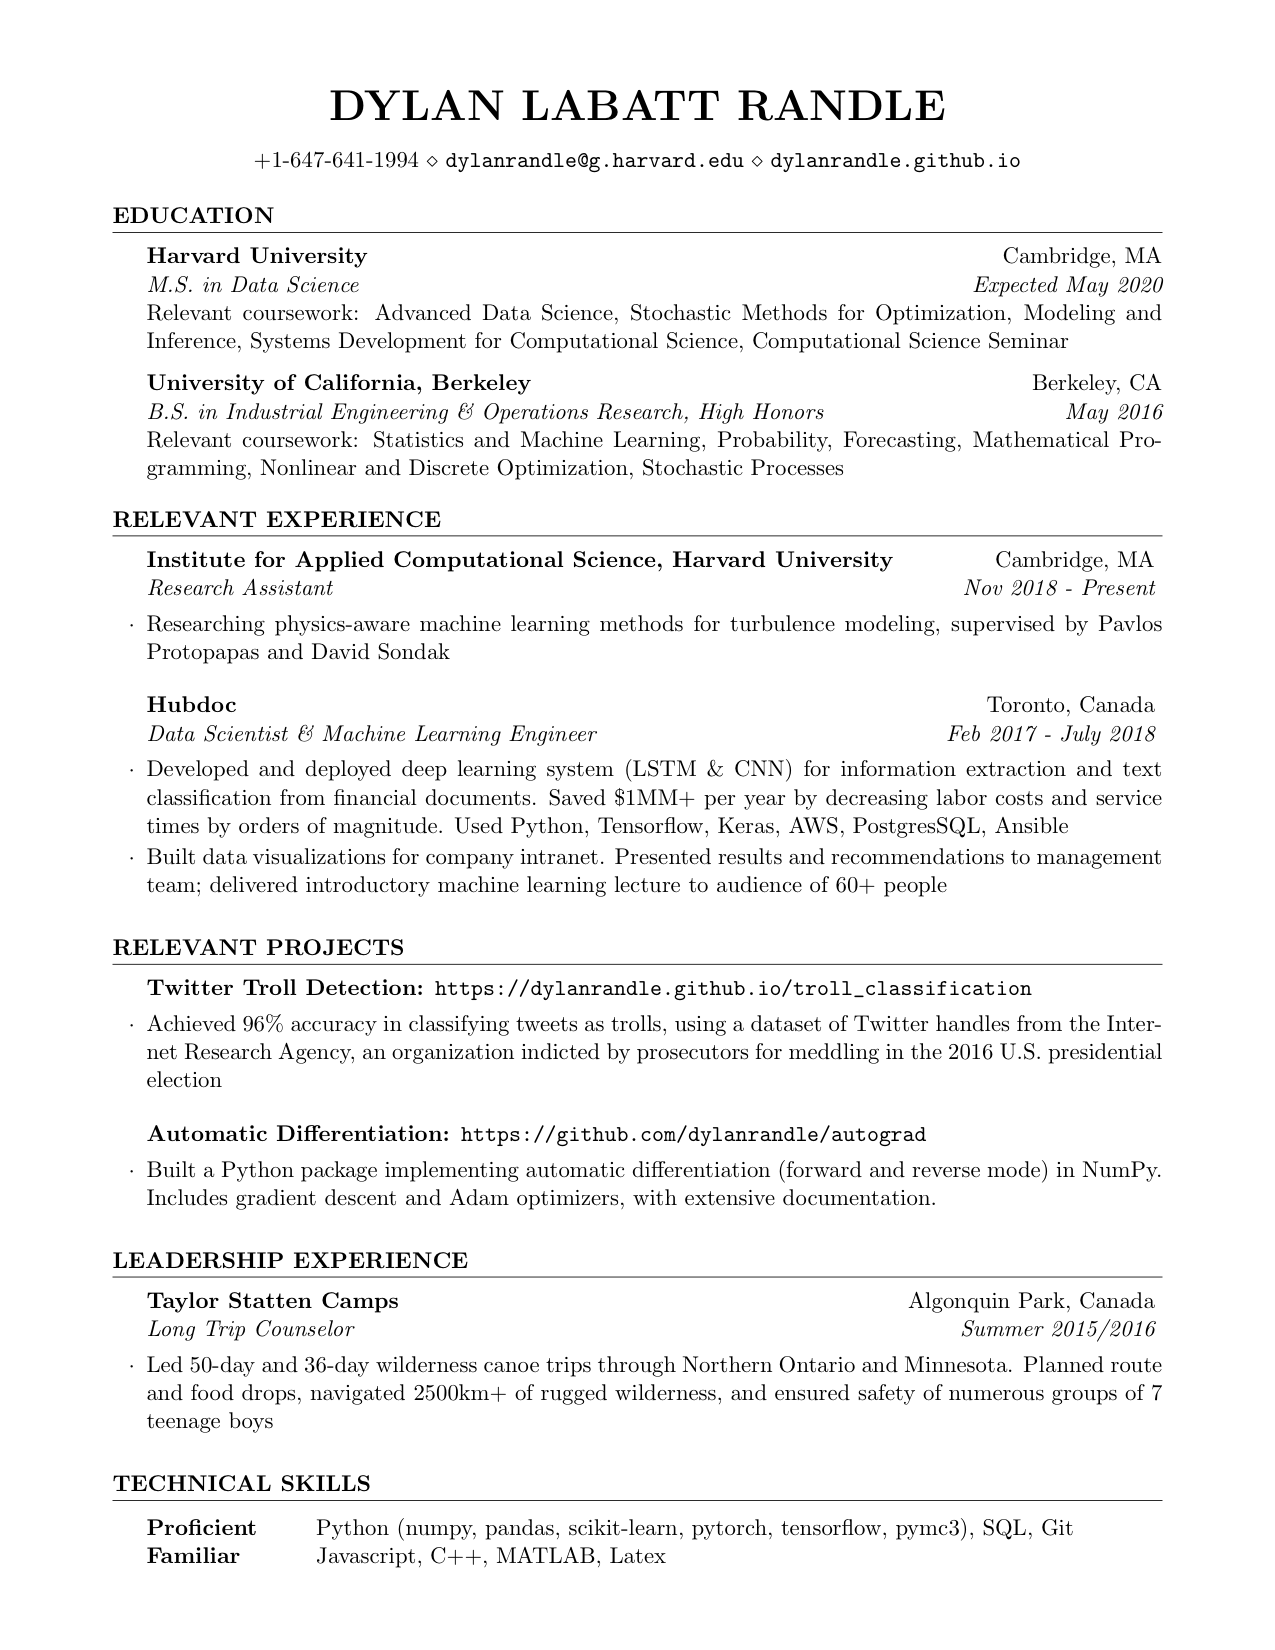
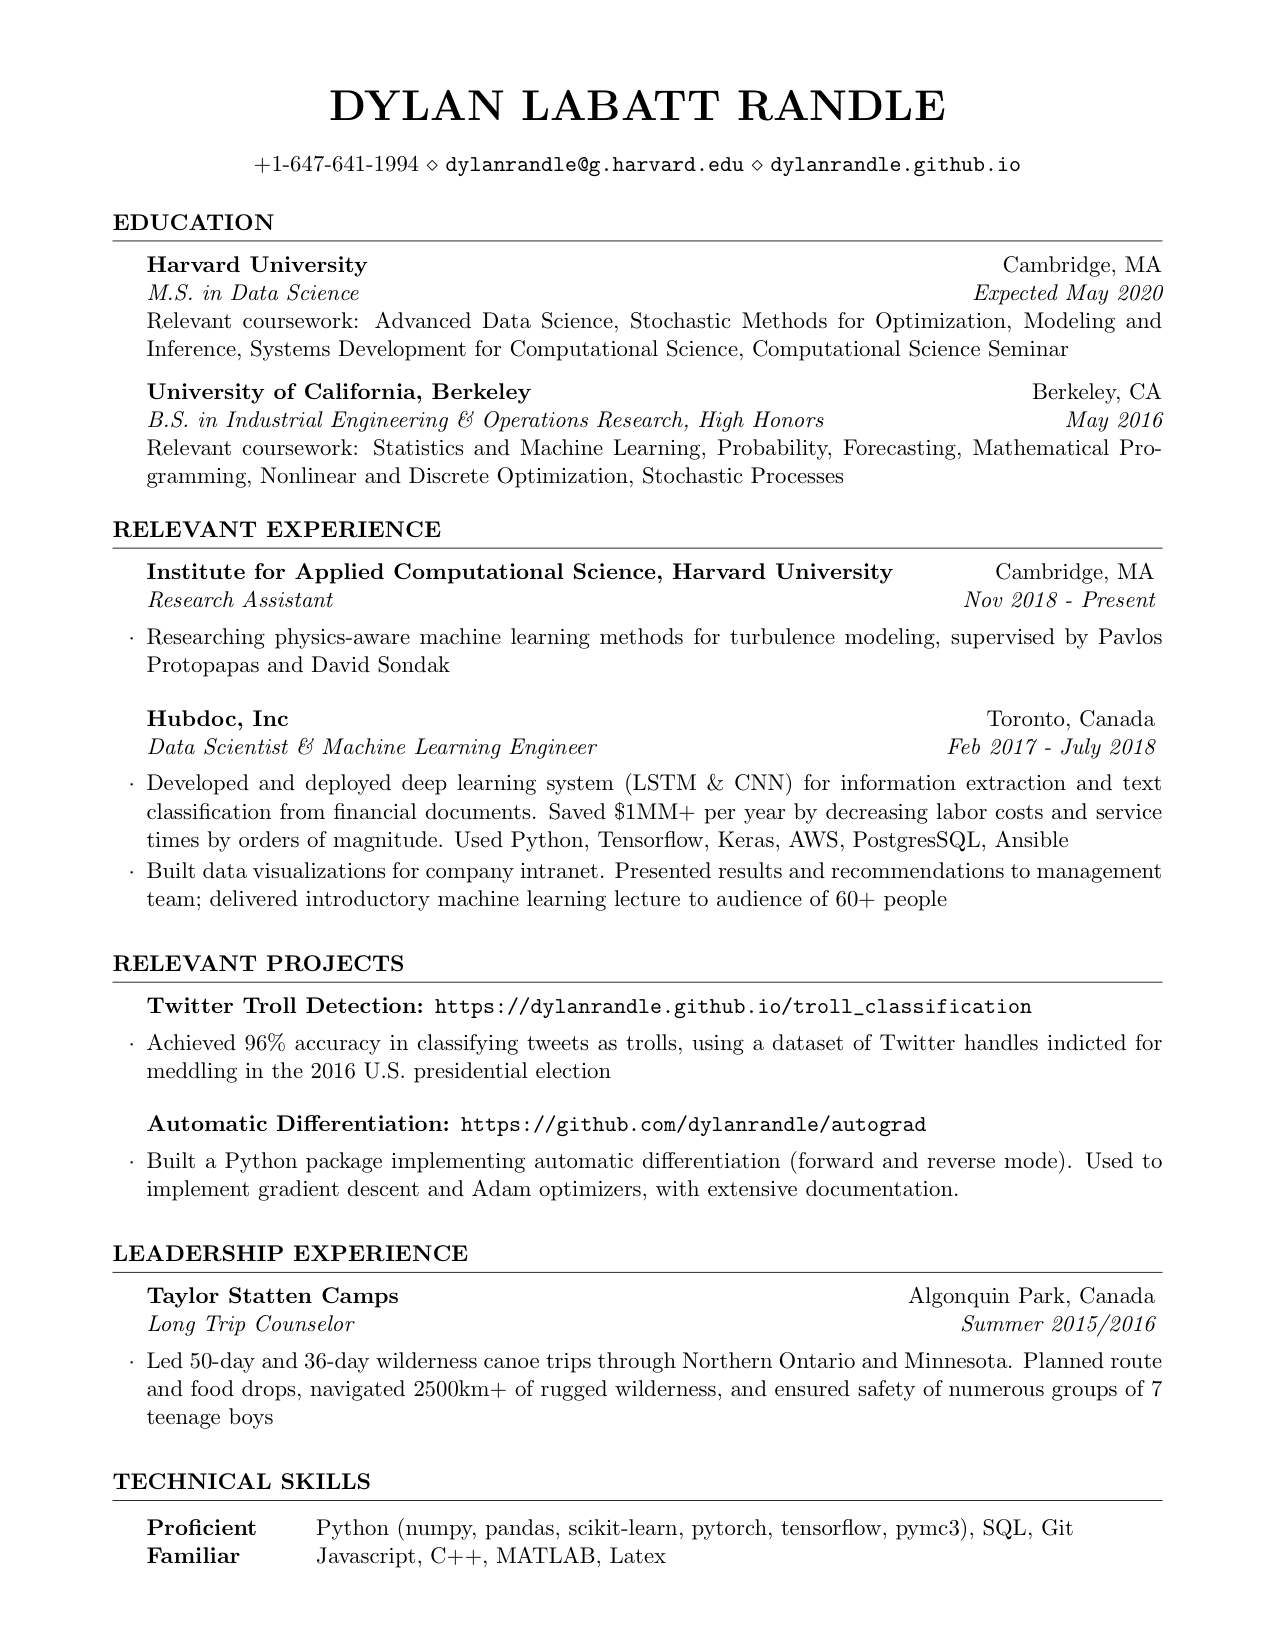
update project wording

Changed region(s): [[0.0918, 0.0927, 0.9176, 0.8655], [0.3059, 0.0927, 0.7953, 0.1236]]

diff --git a/resume.tex b/resume.tex
@@ -64,7 +64,7 @@
 
 %------------------------------------------------
 
-\begin{rSubsection}{Hubdoc}{Toronto, Canada}{Data Scientist \& Machine Learning Engineer}{ Feb 2017 - July 2018}
+\begin{rSubsection}{Hubdoc, Inc}{Toronto, Canada}{Data Scientist \& Machine Learning Engineer}{ Feb 2017 - July 2018}
 \item Developed and deployed deep learning system (LSTM \& CNN) for information extraction and text classification from financial documents. Saved \$1MM+ per year by decreasing labor costs and service times by orders of magnitude. Used Python, Tensorflow, Keras, AWS, PostgresSQL, Ansible
 \item Built data visualizations for company intranet. Presented results and recommendations to management team; delivered introductory machine learning lecture to audience of 60+ people
 \end{rSubsection}
@@ -79,13 +79,13 @@
 \begin{rSection}{Relevant Projects}
 
 \begin{rSubsection}{Twitter Troll Detection: \url{https://dylanrandle.github.io/troll_classification}}{}{}{}
-\item Achieved 96\% accuracy in classifying tweets as trolls, using a dataset of Twitter handles from the Internet Research Agency, an organization indicted by prosecutors for meddling in the 2016 U.S. presidential election
+\item Achieved 96\% accuracy in classifying tweets as trolls, using a dataset of Twitter handles indicted for meddling in the 2016 U.S. presidential election
 \end{rSubsection}
 
 %------------------------------------------------
 
 \begin{rSubsection}{Automatic Differentiation: \url{https://github.com/dylanrandle/autograd }}{}{}{}
-\item Built a Python package implementing automatic differentiation (forward and reverse mode) in NumPy. Includes gradient descent and Adam optimizers, with extensive documentation.
+\item Built a Python package implementing automatic differentiation (forward and reverse mode). Used to implement gradient descent and Adam optimizers, with extensive documentation.
 \end{rSubsection}
 
 \end{rSection}
